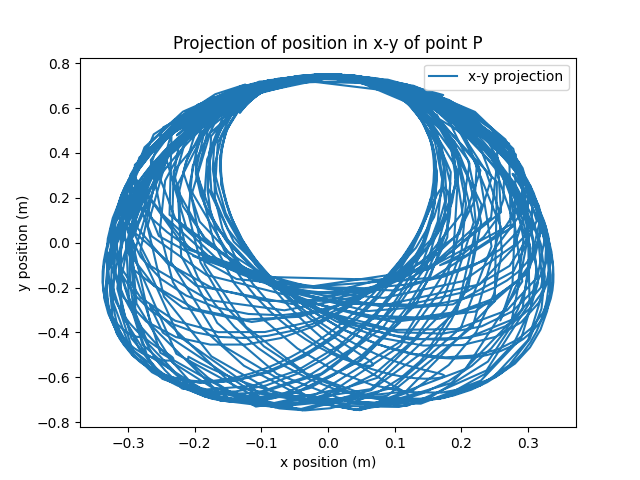
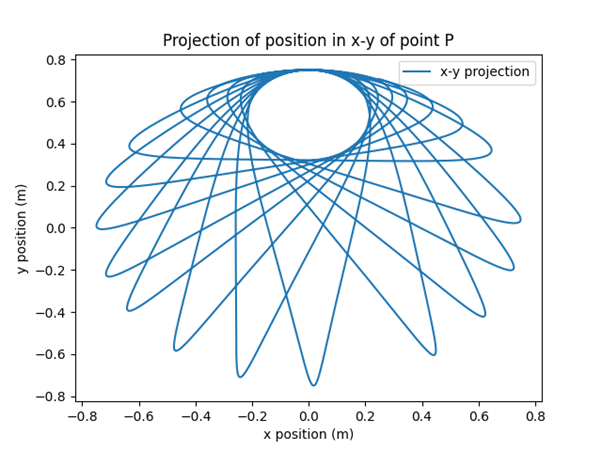
Fixed

diff --git a/Final/Coursework.py b/Final/Coursework.py
@@ -57,12 +57,12 @@ def calculate():
 
         next_angular_momentum = calculate_next_angular_momentum(angular_momenta, euler_gamma, n, time_step)
 
-        next_position = calculate_next_position(acceleration, n, positions, time_step, velocities)
+        next_centre_of_mass_position = calculate_next_position(acceleration, n, positions, time_step, velocities)
 
-        local_p_this_step = calculate_next_local_p_position(next_angular_momentum, next_time, point_p_local)
+        local_p_position_this_step = calculate_next_local_p_position(next_angular_momentum, next_time, point_p_local)
 
         next_p_position = point_p_positions[n + 1]
-        next_p_position.elements = next_position.elements + local_p_this_step.elements
+        next_p_position.elements = next_centre_of_mass_position.elements + local_p_position_this_step.elements
 
         time_measurements[n + 1] = next_time
 
@@ -192,7 +192,7 @@ def calculate_next_local_p_position(next_angular_momentum, next_time, point_p_lo
     Calculate the local position of point_p_local using the angular momentum and time
     """
     # calculate theta from the angular momentum magnitude
-    angular_momentum_magnitude = np.linalg.norm(next_angular_momentum.elements, ord=1)
+    angular_momentum_magnitude = np.linalg.norm(next_angular_momentum.elements)
     theta = angular_momentum_magnitude * next_time
 
     # calculate variables needed for rotation matrix
